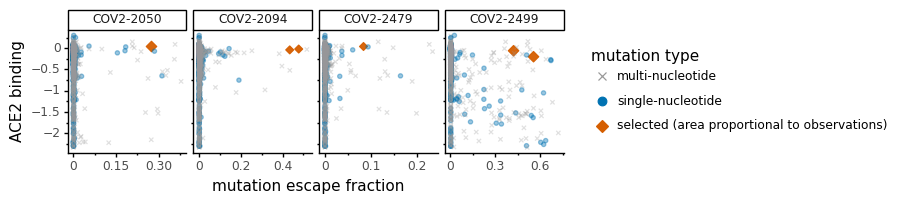
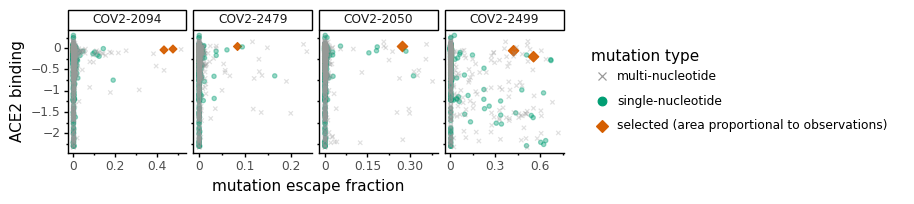
reformat escape selection plots

diff --git a/results/summary/escape_selections.md b/results/summary/escape_selections.md
@@ -45,7 +45,7 @@ Make output directory:
 
 
 ```python
-os.makedirs(config['escape_selections_dir'])
+os.makedirs(config['escape_selections_dir'], exist_ok=True)
 ```
 
 Read escape-mutation mapping and deep mutational scanning results, and then merge them:
@@ -179,10 +179,17 @@ for antibody, d in selection_results.items():
             site = int(mutation_str[1: -1])
             mutation = mutation_str[-1]
             records.append((antibody, site, wt, mutation, n))
+            assert 1 == len(escape_dms.query('antibody == @antibody')
+                                      .query('wildtype == @wt')
+                                      .query('site == @site')
+                                      .query('mutation == @mutation')
+                                      ), f"{mutation_str} not in `escape_dms` once for {antibody}"
             
 selection_df = pd.DataFrame.from_records(
                 records,
                 columns=['antibody', 'site', 'wildtype', 'mutation', 'n_selected'])
+
+antibody_order = selection_df['antibody'].unique().tolist()
 
 display(HTML(selection_df.to_html(index=False)))
 ```
@@ -199,20 +206,6 @@ display(HTML(selection_df.to_html(index=False)))
     </tr>
   </thead>
   <tbody>
-    <tr>
-      <td>COV2-2499</td>
-      <td>446</td>
-      <td>G</td>
-      <td>D</td>
-      <td>2</td>
-    </tr>
-    <tr>
-      <td>COV2-2499</td>
-      <td>498</td>
-      <td>Q</td>
-      <td>R</td>
-      <td>2</td>
-    </tr>
     <tr>
       <td>COV2-2094</td>
       <td>378</td>
@@ -239,6 +232,20 @@ display(HTML(selection_df.to_html(index=False)))
       <td>484</td>
       <td>E</td>
       <td>K</td>
+      <td>2</td>
+    </tr>
+    <tr>
+      <td>COV2-2499</td>
+      <td>446</td>
+      <td>G</td>
+      <td>D</td>
+      <td>2</td>
+    </tr>
+    <tr>
+      <td>COV2-2499</td>
+      <td>498</td>
+      <td>Q</td>
+      <td>R</td>
       <td>2</td>
     </tr>
   </tbody>
@@ -384,10 +391,8 @@ if any(escape_dms_selection['wildtype'] != escape_dms_selection['VSV_aa']):
     Reading Spike codon sequence from data/VSV-SARS-CoV-2-Spike.gb
 
 
-Make plots showing effects of all mutations and single-nucleotide mutations only, with red circles indicating the actual selected mutations and circle area proportional to number of times mutation was selected.
-Mutations not selected are shown as gray circles proportional in size to mutations selected once.
-
-Make the plot **both** for all amino-acid mutations and just ones that are single-nucleotide accessible from the VSV Spike:
+Make plots showing effects of all mutations stratified by how many times observed in selections, and whether single-nucleotide accessible or not from VSV spike.
+For mutations observed in selections point size is proportional to times observed:
 
 
 ```python
@@ -403,6 +408,7 @@ cat_labels = {0: 'multi-nucleotide',
               2: 'selected (area proportional to observations)',
               }
 df = escape_dms_selection.assign(
+        antibody=lambda x: pd.Categorical(x['antibody'], antibody_order, ordered=True),
         point_area=lambda x: numpy.clip(x['n_selected'], 0.5, None),
         # 0 for not single-nt accessible, 1 for single-nt accessible but not selected, 2 for selected and single-nt accessible
         point_category_int=lambda x: x['any_selected'].astype(int) + x['single_nt_accessible'],
@@ -416,7 +422,7 @@ p = (ggplot(df) +
          size='point_area', shape='point_category') +
      geom_point() +
      facet_wrap('~ antibody', nrow=1, scales='free_x') +
-     scale_color_manual(values=[CBPALETTE[0], CBPALETTE[5], CBPALETTE[6]]) +
+     scale_color_manual(values=[CBPALETTE[0], CBPALETTE[3], CBPALETTE[6]]) +
      scale_alpha_manual(values=[0.3, 0.4, 0.95]) +
      scale_size_area(max_size=2.5) +
      scale_shape_manual(values=['x', 'o', 'D']) +
